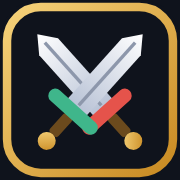
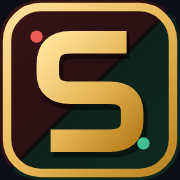
Rebrand as skalse-dota2-picker
New S logo (favicon, touch icons), SKALSE wordmark with a Dota 2 Picker tag,
page title and links point to the renamed repository.

diff --git a/styles.css b/styles.css
@@ -82,7 +82,19 @@ code { font-size: 12px; padding: 1px 5px; border-radius: 4px; background: var(--
 .brand { display: flex; align-items: center; gap: 12px; min-width: 0; }
 .brand-mark { width: 40px; height: 40px; border-radius: 10px; display: block; flex: none; box-shadow: 0 4px 16px rgba(229, 180, 83, .25); }
 .brand-text { min-width: 0; }
-.brand-title { font: 700 20px/1 Rajdhani, sans-serif; letter-spacing: .5px; }
+.brand-title { display: flex; align-items: center; gap: 8px; line-height: 1; }
+.wordmark {
+  font: 700 23px/1 Rajdhani, sans-serif; letter-spacing: 3px;
+  background: linear-gradient(180deg, #ffe29a 0%, var(--accent) 55%, #b9821f 100%);
+  -webkit-background-clip: text; background-clip: text; color: transparent;
+  text-shadow: 0 2px 14px rgba(229, 180, 83, .18);
+}
+.brand-tag {
+  font: 700 10px/1 Inter, system-ui, sans-serif; letter-spacing: 1.2px; text-transform: uppercase;
+  color: var(--muted); padding: 4px 7px; border-radius: 6px;
+  border: 1px solid var(--line-2);
+  background: linear-gradient(90deg, var(--enemy-soft), var(--ally-soft));
+}
 .brand-sub { display: flex; align-items: center; gap: 6px; color: var(--muted); font-size: 12px; margin-top: 4px; }
 .brand-sub span:last-child { overflow: hidden; text-overflow: ellipsis; white-space: nowrap; }
 .data-dot { width: 7px; height: 7px; border-radius: 50%; background: var(--good); box-shadow: 0 0 0 3px rgba(76, 207, 144, .18); flex: none; }
@@ -598,7 +610,8 @@ code { font-size: 12px; padding: 1px 5px; border-radius: 4px; background: var(--
 }
 @media (max-width: 760px) {
   .topbar { padding: 10px 14px; }
-  .brand-title { font-size: 18px; }
+  .wordmark { font-size: 20px; letter-spacing: 2px; }
+  .brand-tag { font-size: 9px; padding: 3px 6px; }
   .topbar-actions { width: 100%; }
   .topbar-actions .btn span:not(.btn-icon) { display: none; }
   .topbar-actions .btn { padding: 9px 11px; }

diff --git a/index.html b/index.html
@@ -4,11 +4,13 @@
   <meta charset="utf-8">
   <meta name="viewport" content="width=device-width, initial-scale=1, viewport-fit=cover">
   <meta name="description" content="Dota 2 counter picker and item builds based on Dotabuff and OpenDota.">
-  <title>Skalse Picker · Dota 2</title>
+  <title>Skalse · Dota 2 Picker</title>
   <link rel="icon" href="favicon.svg" type="image/svg+xml">
   <link rel="icon" href="favicon-32.png" sizes="32x32" type="image/png">
   <link rel="apple-touch-icon" href="apple-touch-icon.png">
   <meta name="theme-color" content="#0b0e14">
+  <meta property="og:title" content="Skalse · Dota 2 Picker">
+  <meta property="og:image" content="icon-512.png">
   <link rel="preconnect" href="https://fonts.googleapis.com">
   <link rel="preconnect" href="https://fonts.gstatic.com" crossorigin>
   <link href="https://fonts.googleapis.com/css2?family=Inter:wght@400;500;600;700&family=Rajdhani:wght@600;700&display=swap" rel="stylesheet">
@@ -19,7 +21,7 @@
     <div class="brand">
       <img class="brand-mark" src="favicon.svg" alt="">
       <div class="brand-text">
-        <div class="brand-title">Skalse Picker</div>
+        <div class="brand-title"><span class="wordmark">SKALSE</span><span class="brand-tag">Dota 2 Picker</span></div>
         <div class="brand-sub"><span class="data-dot" id="data-dot"></span><span id="data-info" data-i18n="data.loading">loading…</span></div>
       </div>
     </div>
@@ -120,7 +122,7 @@
     <p data-i18n-html="footer.based"></p>
     <p>
       <button class="link" id="btn-update" data-i18n="footer.update">Update manually</button>
-      · <a href="https://github.com/brizzinck/dota-analysis" data-i18n="footer.source">Source code</a>
+      · <a href="https://github.com/brizzinck/skalse-dota2-picker" data-i18n="footer.source">Source code</a>
     </p>
   </footer>
 

diff --git a/app.js b/app.js
@@ -1,6 +1,6 @@
 'use strict';
 /*
- * Skalse Picker — draft, positions and counter-pick suggestions.
+ * Skalse Dota 2 Picker — draft, positions and counter-pick suggestions.
  * Item builds live in builds.js, translations in i18n.js, the knowledge base in knowledge.js.
  */
 

diff --git a/scraper.js b/scraper.js
@@ -1,5 +1,5 @@
 /*
- * Skalse Picker — Dotabuff data collector.
+ * Skalse Dota 2 Picker — Dotabuff data collector.
  *
  * Collects for the current patch:
  *   • counters  /heroes/<hero>/counters  — disadvantage, win rate, matches

diff --git a/README.md b/README.md
@@ -1,10 +1,10 @@
-# Skalse Picker — Dota 2
+# skalse-dota2-picker
 
 A Dota 2 counter picker with position-aware suggestions and item builds, based on
 [Stratz](https://stratz.com) and [Dotabuff](https://www.dotabuff.com) statistics
 (with [OpenDota](https://www.opendota.com) as a live fallback).
 
-**Live site:** https://brizzinck.github.io/dota-analysis/ — Ukrainian by default, Russian and English selectable.
+**Live site:** https://brizzinck.github.io/skalse-dota2-picker/ — Ukrainian by default, Russian and English selectable.
 No server needed: it is a static site, you can also just open `index.html`.
 
 ## Features
